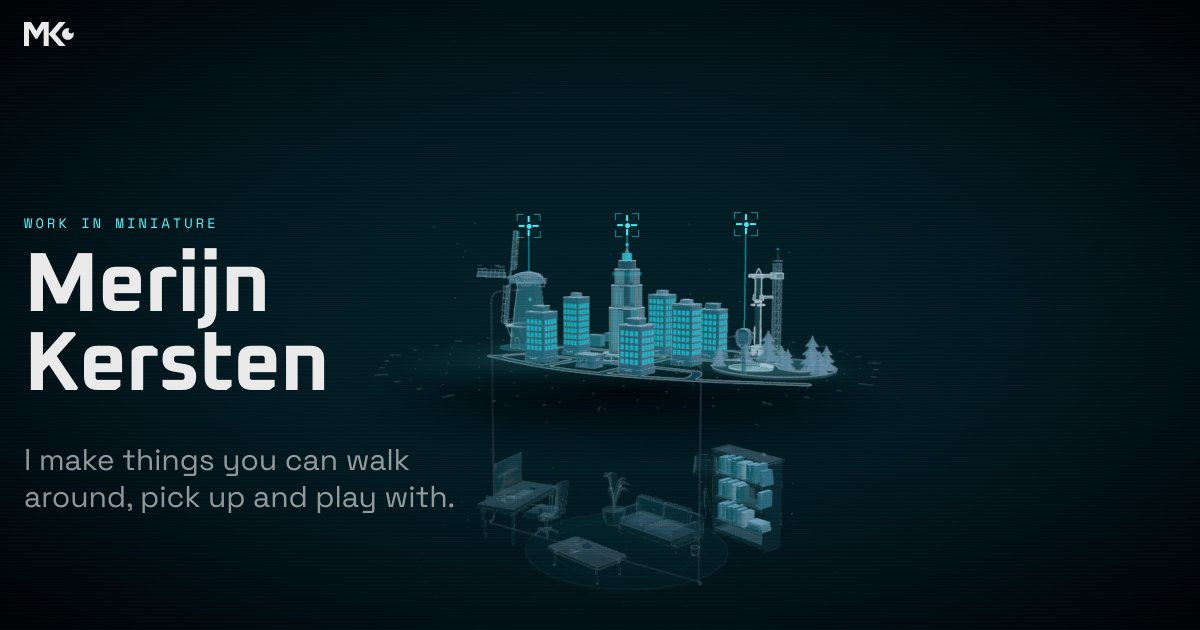
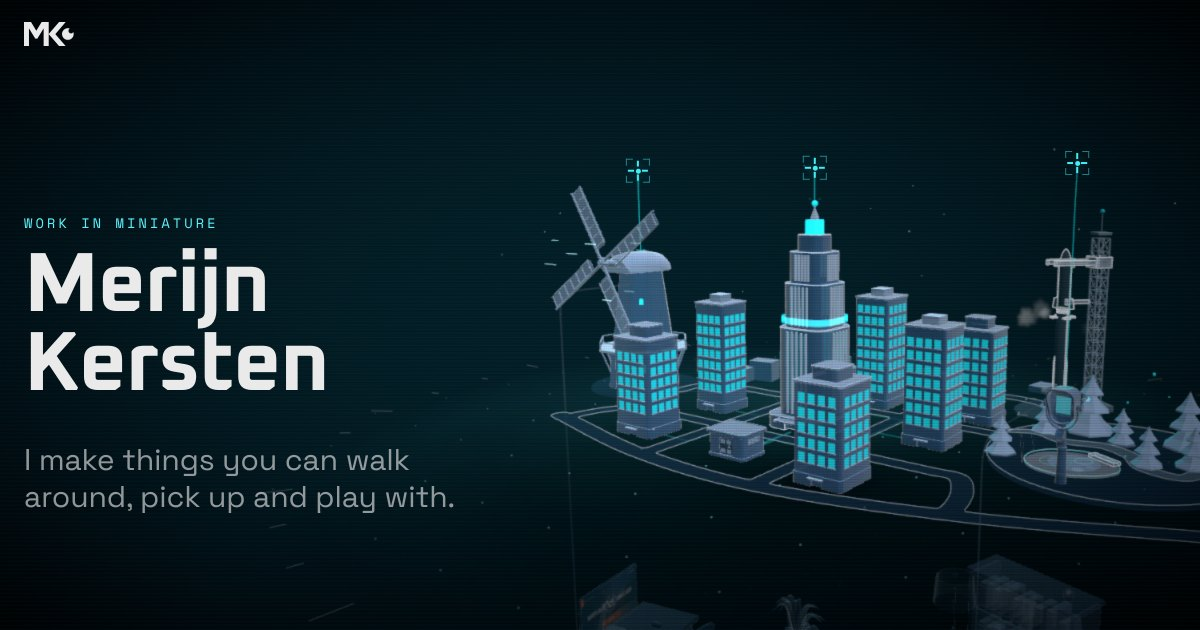
Small fixes from the review, and the docs for the new hero
- A link straight to an exhibit no longer opens with a focus ring round
  the close button: the dialog takes the focus itself unless the visitor
  is on the keyboard. The label and the 404 are plain dialogs now (a
  dialog role isn't allowed on an article).
- The book's close button stands on the page's colour, so a long story
  scrolls up under it rather than through it.
- Contact on a phone: the letter flies in low, under the buttons, instead
  of across the heading and the email.
- The collection on a phone: year and "In the depot" one under the other
  on every card, and the sector line stops at two lines.
- Timeline: the years before the first project run closer together, so
  the section opens with its first cards in view on a laptop.
- The CV is shown larger than paper size on a wide screen (the PDF isn't).
- No more three.js warnings about an undefined texture.
- The share card waits for the opening to land and leaves the tour button
  out; re-rendered with the new hero.
- DESIGN.md and README: the opening shot, the floor-by-floor hero, how
  the camera composes around the words, where focus goes.

Claude-Session: https://claude.ai/code/session_01CwBrQUEemz9QqegWgX1Gkf

diff --git a/src/components/timeline/layout.ts b/src/components/timeline/layout.ts
@@ -16,6 +16,10 @@ export const WALL = tunable({
   startX: 210,
   /** the distance from one year to the next */
   yearGap: 360,
+  /** …and in the years before the first project, which hold an employer's
+   *  band and no cards: at the full spacing they pushed the first card off
+   *  the side of a laptop's screen, and the section opened on an empty map */
+  leadGap: 220,
   /** the gap between the route and a card's near edge, in % of the map's height */
   rise: 6,
 });
@@ -53,6 +57,8 @@ export interface Route {
   bands: CareerBand[];
   minYear: number;
   maxYear: number;
+  /** the year at a position along the route (the axis run backwards) */
+  yearAt: (x: number) => number;
 }
 
 export function buildRoute(list: CaseStudy[], career: CareerEntry[], cfg: WallLayout): Route {
@@ -70,7 +76,15 @@ export function buildRoute(list: CaseStudy[], career: CareerEntry[], cfg: WallLa
   const now = new Date();
   const present = now.getFullYear() + now.getMonth() / 12;
   const maxYear = Math.max(caseTime(ordered[ordered.length - 1]), present);
-  const xAt = (f: number) => cfg.startX + (f - minYear) * cfg.yearGap;
+  // The years before the first project run closer together (cfg.leadGap).
+  const firstYear = Math.max(minYear, Math.floor(caseTime(ordered[0])));
+  const leadGap = Math.min(cfg.leadGap, cfg.yearGap);
+  const leadW = (firstYear - minYear) * leadGap;
+  const xAt = (f: number) => cfg.startX + (f <= firstYear ? (f - minYear) * leadGap : leadW + (f - firstYear) * cfg.yearGap);
+  const yearAt = (x: number) => {
+    const d = x - cfg.startX;
+    return d <= leadW ? minYear + d / leadGap : firstYear + (d - leadW) / cfg.yearGap;
+  };
 
   // Place the stops left→right, each at its month-precise x. A stop takes
   // whichever side (above/below) still has a clear card-width behind it,
@@ -93,7 +107,7 @@ export function buildRoute(list: CaseStudy[], career: CareerEntry[], cfg: WallLa
   }
 
   const routeLeft = xAt(minYear);
-  const routeW = (maxYear - minYear) * cfg.yearGap;
+  const routeW = xAt(maxYear) - routeLeft;
   const routeRight = routeLeft + routeW;
   const width = routeRight + cfg.startX;
 
@@ -133,7 +147,7 @@ export function buildRoute(list: CaseStudy[], career: CareerEntry[], cfg: WallLa
     if (x2 - x1 > 1) bands.push(band(c, x1, x2));
   }
 
-  return { width, routeLeft, routeW, stops, bands, minYear, maxYear };
+  return { width, routeLeft, routeW, stops, bands, minYear, maxYear, yearAt };
 }
 
 /** The employer under a given x on the route, for the phone's company bar,

diff --git a/src/components/home/ContactMotif.tsx b/src/components/home/ContactMotif.tsx
@@ -66,14 +66,23 @@ export function ContactMotif() {
       ctx.fillRect(x - s / 2, y - s / 2, s, s);
     };
 
+    // A narrow card (a phone) is all text from edge to edge: the wide route
+    // took the letter straight through the heading and the email. There it
+    // flies low instead, along the strip under the buttons where the letterbox
+    // stands (see the route below).
+    const low = () => w < 560;
+
     // Scroll → progress: the flight only starts once a good third of the card
     // is already on screen (so it plays in view), and the letter is posted a
     // touch before the card is fully revealed — right at the end of the page.
+    // (The low route is all in the card's last stretch, so it plays over the
+    // last of the scroll, as that stretch comes into view.)
     const onScroll = () => {
       const rect = cv.getBoundingClientRect();
       const vh = window.innerHeight || 1;
       const reveal = (vh - rect.top) / (rect.height + 1);
-      pTarget = Math.max(0, Math.min(1, (reveal - 0.38) / (0.96 - 0.38)));
+      const [from, to] = low() ? [0.9, 1.1] : [0.38, 0.96];
+      pTarget = Math.max(0, Math.min(1, (reveal - from) / (to - from)));
     };
 
     const render = (dt: number) => {
@@ -92,13 +101,16 @@ export function ContactMotif() {
       const slotHalf = bw * 0.3;
 
       // --- flight route: spawns just past the card's left edge (clipped by
-      // the card), sweeps across and drops into the slot ---
+      // the card), sweeps across and drops into the slot. On a narrow card:
+      // in low from the left, over a small rise and down into it, all under
+      // the buttons ---
+      const narrow = low();
       const x0 = -30;
-      const y0 = h * 0.26;
-      const c1x = w * 0.36;
-      const c1y = h * 0.03;
-      const c2x = w * 0.95;
-      const c2y = h * 0.12;
+      const y0 = narrow ? h - 70 : h * 0.26;
+      const c1x = narrow ? w * 0.3 : w * 0.36;
+      const c1y = narrow ? h - 102 : h * 0.03;
+      const c2x = narrow ? cxB - 64 : w * 0.95;
+      const c2y = narrow ? h - 108 : h * 0.12;
       const ex = cxB;
       const ey = slotY - 8;
 

diff --git a/src/components/exhibit/Exhibit.tsx b/src/components/exhibit/Exhibit.tsx
@@ -7,6 +7,7 @@ import { useReducedMotion } from '../../lib/media';
 import { useDocumentTitle, useScrollLock } from '../../lib/page';
 import { play } from '../../lib/sound';
 import { useFocusTrap } from '../../lib/useFocusTrap';
+import { byKeyboard } from '../../lib/input';
 import { type FilmClock } from '../../lib/youtube';
 import { useSceneSelector } from '../../scene/store';
 import { Book } from './Book';
@@ -88,7 +89,7 @@ export function Exhibit({
   // the film as the book takes it over from the label: where it was, and whether it was playing
   const [film, setFilm] = useState<FilmClock | null>(null);
   const rootRef = useRef<HTMLDivElement>(null);
-  const labelRef = useRef<HTMLElement>(null);
+  const labelRef = useRef<HTMLDivElement>(null);
   const headRef = useRef<HTMLDivElement>(null);
   const filmRef = useRef<HTMLDivElement>(null);
   const closeRef = useRef<HTMLButtonElement>(null);
@@ -119,9 +120,13 @@ export function Exhibit({
 
   useFocusTrap(rootRef, frame === null);
   // focus goes into the label as it opens, into the book as it unfolds, and
-  // into the next one after a walk
+  // into the next one after a walk: onto its close button for someone on the
+  // keyboard, and otherwise onto the dialog itself, which shows no ring (a
+  // link straight to an exhibit used to open with one round the ✕)
   useEffect(() => {
-    closeRef.current?.focus({ preventScroll: true });
+    const close = closeRef.current;
+    const into = byKeyboard() ? close : (close?.closest<HTMLElement>('[role="dialog"]') ?? close);
+    into?.focus({ preventScroll: true });
   }, [study.slug, book, arrived]);
   // the tab names the project while it's open (and in the history list)
   useDocumentTitle(`${study.title} — ${site.hero.name}`);

diff --git a/src/components/exhibit/Label.tsx b/src/components/exhibit/Label.tsx
@@ -46,7 +46,7 @@ export function Label({
   onStep,
 }: {
   study: CaseStudy;
-  labelRef: RefObject<HTMLElement>;
+  labelRef: RefObject<HTMLDivElement>;
   headRef: RefObject<HTMLDivElement>;
   filmRef: RefObject<HTMLDivElement>;
   closeRef: RefObject<HTMLButtonElement>;
@@ -140,7 +140,7 @@ export function Label({
           )}
         </svg>
       )}
-      <article ref={labelRef} className="xl" role="dialog" aria-modal="true" aria-label={study.title}>
+      <div ref={labelRef} className="xl" role="dialog" aria-modal="true" aria-label={study.title} tabIndex={-1}>
         {sheet && <span className="xl__grip" aria-hidden="true" />}
         {/* the film first: a silent loop (or the poster, drifting), and pressed,
             the film itself, right here */}
@@ -203,7 +203,7 @@ export function Label({
           </button>
           <Walk place="maquette" prev={prev} next={next} onWalk={onWalk} />
         </div>
-      </article>
+      </div>
     </>
   );
 }

diff --git a/src/ui/projects.css b/src/ui/projects.css
@@ -378,6 +378,27 @@
   .pi-card__title {
     font-size: var(--step-0);
   }
+  /* …and the year and where the project hangs don't fit side by side: "In the
+     depot" broke over two lines beside its year while "On display" didn't, so
+     neighbouring cards started at different heights. One under the other, on
+     every card. */
+  .pi-card__stamp {
+    flex-direction: column;
+    align-items: flex-start;
+    gap: 0.45rem;
+  }
+  .pi-card__ex {
+    white-space: nowrap;
+  }
+  /* the sector line holds to two lines (a long one ran to three and pushed
+     its card's foot out of line with its neighbour's) */
+  .pi-card__sector {
+    display: -webkit-box;
+    -webkit-box-orient: vertical;
+    -webkit-line-clamp: 2;
+    line-clamp: 2;
+    overflow: hidden;
+  }
   .pi-chip {
     padding: 0.55em 0.75em;
   }

diff --git a/src/ui/cv.css b/src/ui/cv.css
@@ -324,6 +324,23 @@
 }
 
 /* ---------- narrow screens ---------- */
+/* On a wide screen the sheet at paper size is a narrow column of small print
+   in the middle of a lot of dark: it's shown larger there, toolbar and all.
+   The whole sheet is scaled, so it stays the facsimile of the page that
+   prints — and print never matches this (the PDF keeps the paper's size). */
+@media screen and (min-width: 1200px) {
+  .cv-tools,
+  .cv {
+    zoom: 1.2;
+  }
+}
+@media screen and (min-width: 1600px) {
+  .cv-tools,
+  .cv {
+    zoom: 1.35;
+  }
+}
+
 /* The sheet is a literal A4 page — 210mm wide, because it is also what
    `npm run cv` prints the PDF from. On a phone that is 794px of fixed width in
    a 390px viewport: the page scrolled sideways, the header clipped the name to

diff --git a/src/lib/input.ts b/src/lib/input.ts
@@ -1,0 +1,20 @@
+// Whether the last thing the visitor did was on the keyboard.
+//
+// Focus the page moves by itself (into a dialog as it opens) wants to land on
+// a control for someone tabbing through, who then sees where they are. After a
+// click, or on a page that opens straight onto a dialog, the same move puts a
+// focus ring on a button nobody chose, which reads as a stray highlight: there
+// the dialog itself takes the focus, and shows none.
+let keyed = false;
+if (typeof window !== 'undefined') {
+  window.addEventListener(
+    'keydown',
+    (e) => {
+      if (!e.metaKey && !e.ctrlKey && !e.altKey) keyed = true;
+    },
+    true,
+  );
+  window.addEventListener('pointerdown', () => (keyed = false), true);
+}
+
+export const byKeyboard = () => keyed;

diff --git a/src/scene/maquette/room.tsx b/src/scene/maquette/room.tsx
@@ -2317,7 +2317,8 @@ function FloorLamp({ position, slug }: { position: V3; slug?: string }) {
   const reduced = useReducedMotion();
   const light = useMemo(() => {
     const add = (color: string, map?: Texture) => {
-      const m = new MeshBasicMaterial({ color, map, transparent: true, opacity: 0, blending: AdditiveBlending, depthWrite: false, toneMapped: false, side: DoubleSide });
+      // (no `map` key at all without one: three.js warns about an undefined parameter)
+      const m = new MeshBasicMaterial({ color, ...(map && { map }), transparent: true, opacity: 0, blending: AdditiveBlending, depthWrite: false, toneMapped: false, side: DoubleSide });
       m.userData = { lifeSkip: true }; // it sets its own opacity (presence.tsx)
       return m;
     };

diff --git a/src/components/shell/NotFound.tsx b/src/components/shell/NotFound.tsx
@@ -24,7 +24,7 @@ export function NotFound() {
   return createPortal(
     <div ref={ref} className="exhibit closed" data-place="page">
       <div className="exhibit__dim" aria-hidden="true" />
-      <article className="xl closed__label" role="dialog" aria-modal="true" aria-labelledby="closed-title">
+      <div className="xl closed__label" role="dialog" aria-modal="true" aria-labelledby="closed-title">
         <div className="xl__body">
           <span className="xl__no">Closed for now</span>
           <h1 id="closed-title" className="xl__title">
@@ -43,7 +43,7 @@ export function NotFound() {
             </Link>
           </div>
         </div>
-      </article>
+      </div>
     </div>,
     document.body,
   );

diff --git a/src/lib/useFocusTrap.ts b/src/lib/useFocusTrap.ts
@@ -37,7 +37,9 @@ export function useFocusTrap(ref: RefObject<HTMLElement | null>, active = true) 
       const last = items[items.length - 1];
       const current = document.activeElement;
       // Wrap at the ends; if focus somehow escaped the dialog, pull it back.
-      if (e.shiftKey && (current === first || !el.contains(current))) {
+      // (Focus on the dialog itself, where it lands when one opens after a
+      // click, counts as its start going backwards.)
+      if (e.shiftKey && (current === first || !el.contains(current) || !items.includes(current as HTMLElement))) {
         e.preventDefault();
         last.focus();
       } else if (!e.shiftKey && (current === last || !el.contains(current))) {

diff --git a/src/scene/maquette/scenario.tsx b/src/scene/maquette/scenario.tsx
@@ -199,7 +199,8 @@ export function Scenario({ slug, link }: { slug: string; link: MutableRefObject<
   }, [plan, ink]);
   const mats = useMemo(() => {
     const ink = (color: string, map?: CanvasTexture) => {
-      const m = new MeshBasicMaterial({ color, map, transparent: true, opacity: 0, depthWrite: false, toneMapped: false, fog: false });
+      // (no `map` key at all without one: three.js warns about an undefined parameter)
+      const m = new MeshBasicMaterial({ color, ...(map && { map }), transparent: true, opacity: 0, depthWrite: false, toneMapped: false, fog: false });
       m.userData = { lifeSkip: true, presenceOwn: true };
       return m;
     };

diff --git a/src/ui/exhibit.css b/src/ui/exhibit.css
@@ -308,6 +308,12 @@
   cursor: pointer;
   transition: color var(--t-fast) var(--ease), border-color var(--t-fast) var(--ease);
 }
+/* The dialogs take the focus themselves when one opens after a click or
+   straight from a link (Exhibit.tsx): no ring round the whole label or book. */
+.xl:focus,
+.xb:focus {
+  outline: none;
+}
 .xl__close:hover,
 .xl__close:focus-visible,
 .xb__close:hover,
@@ -549,6 +555,9 @@
   z-index: 3;
   top: 1.25rem;
   right: var(--page-pad);
+  /* the page's own colour behind it: a long story scrolls up under it, and its
+     lines used to show through the button */
+  background: var(--page);
 }
 .xb__verso,
 .xb__recto {
